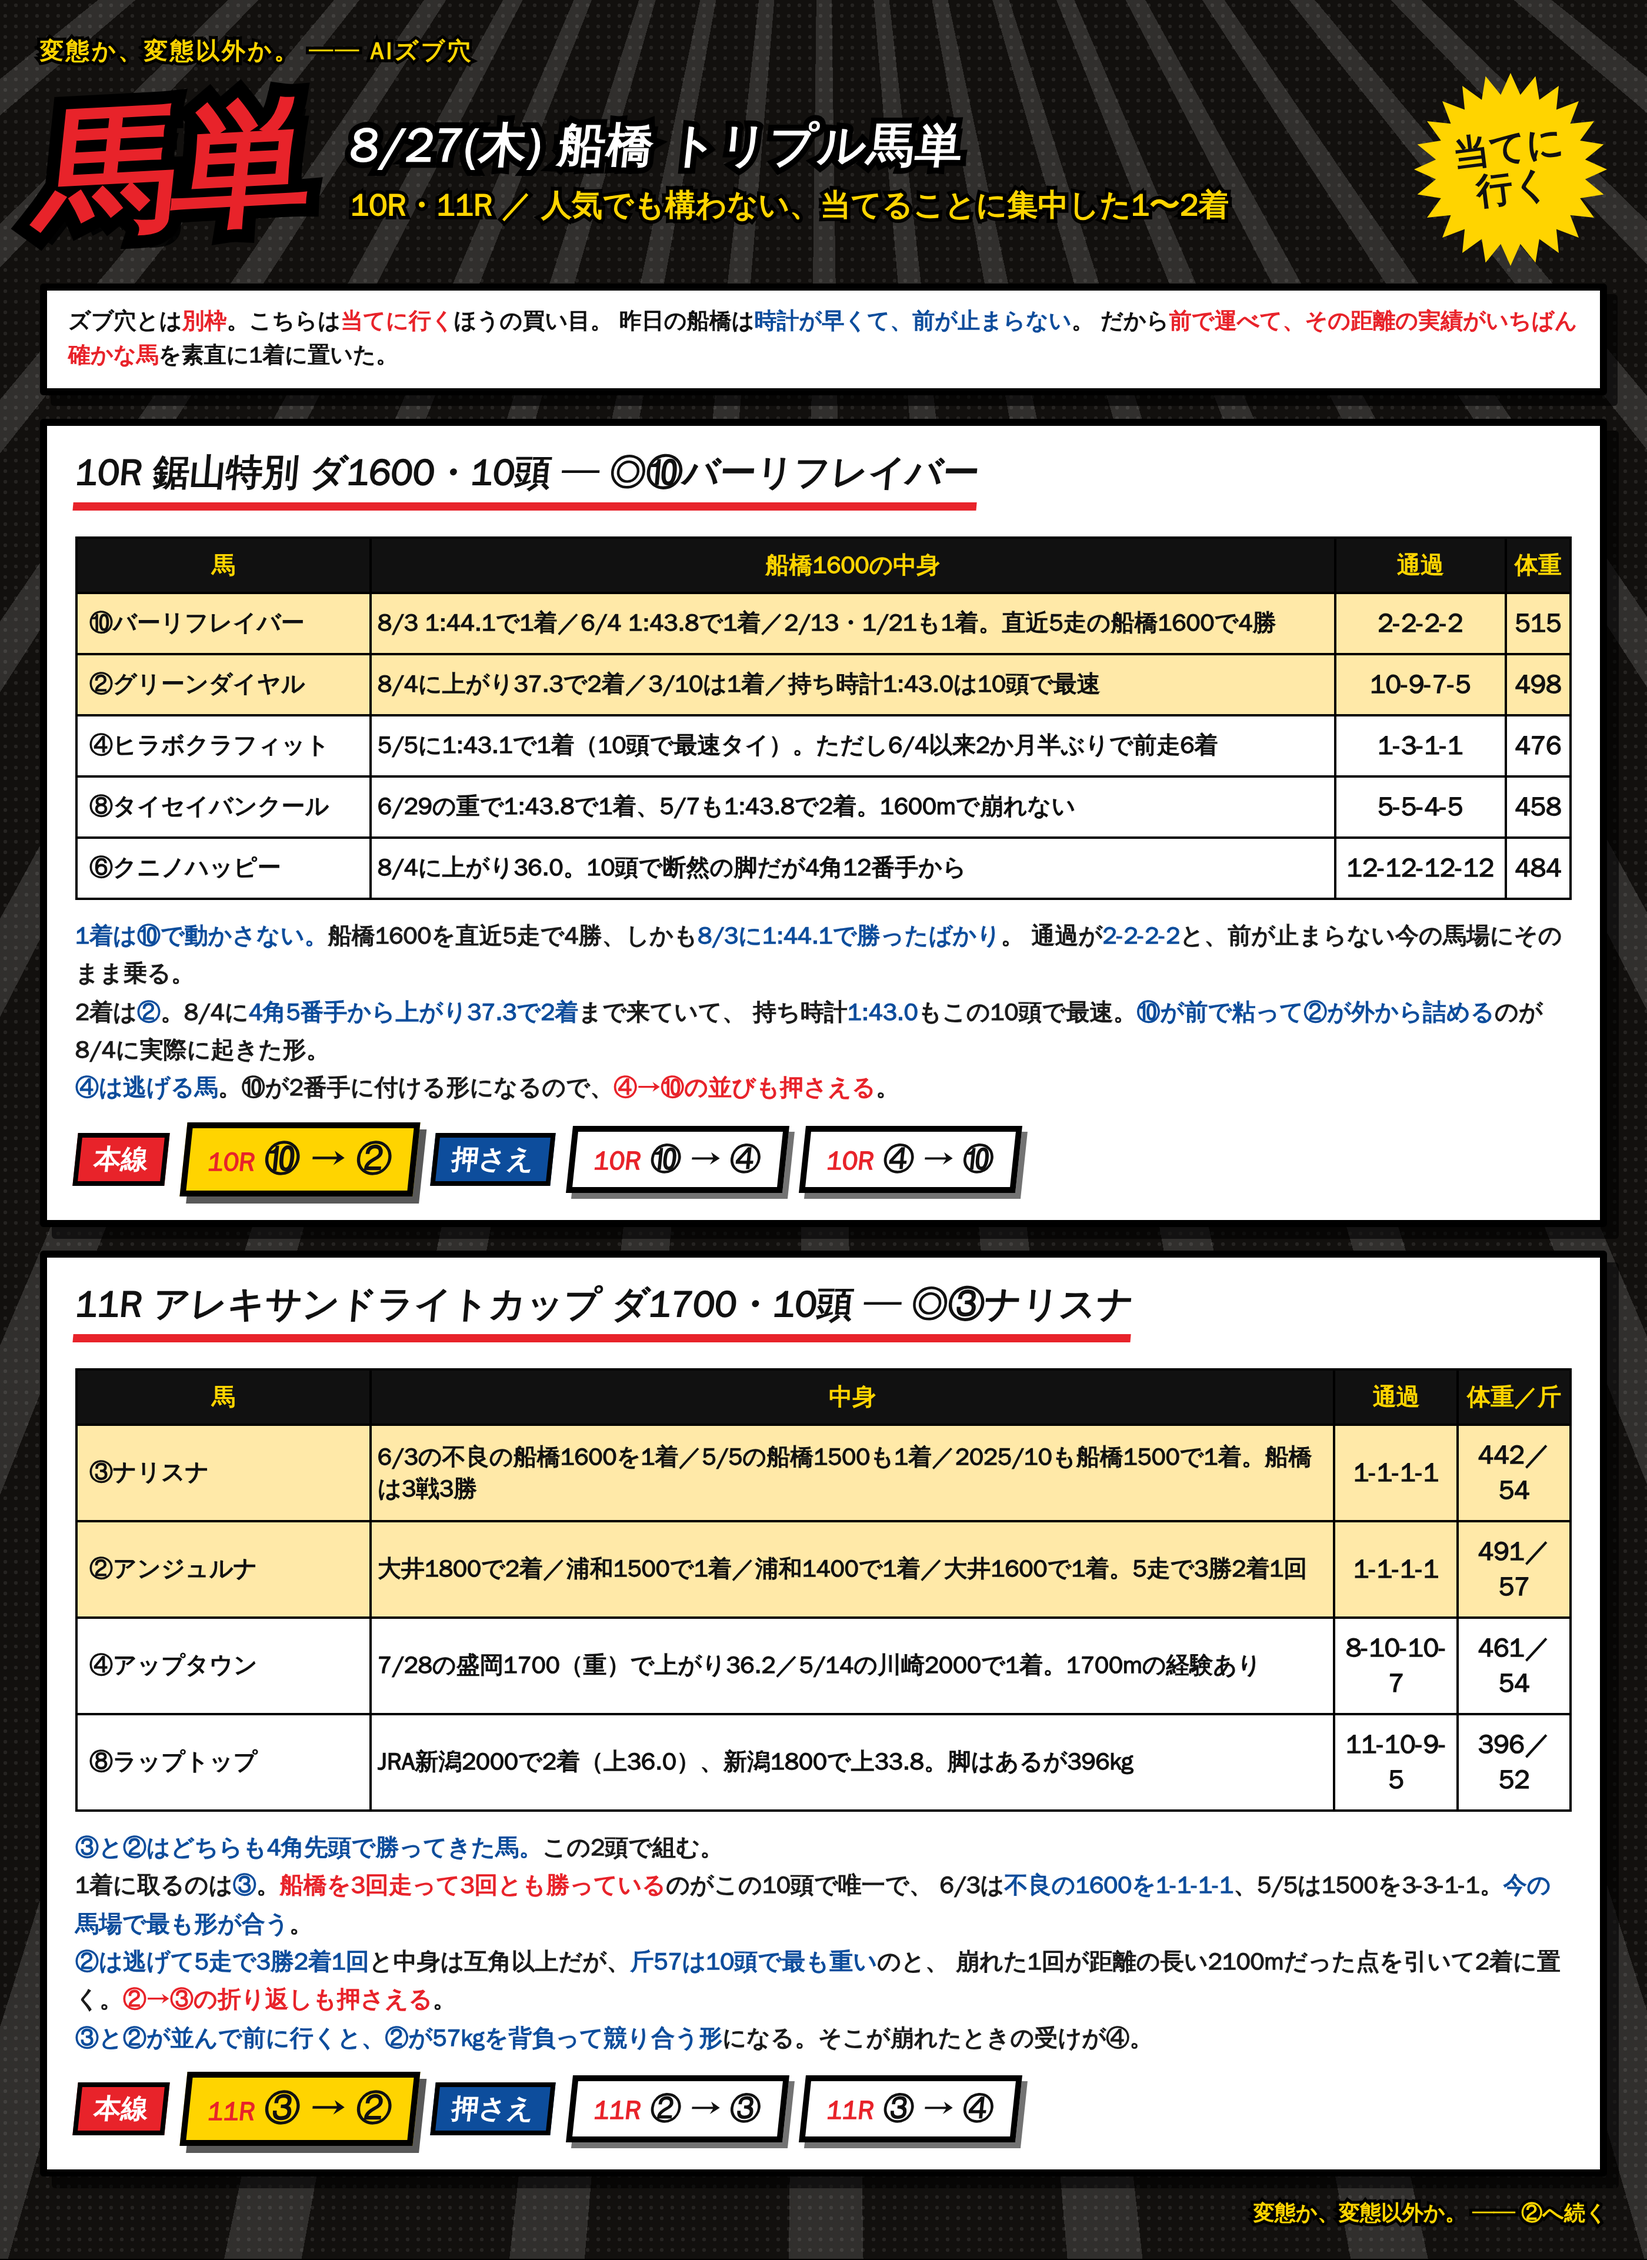
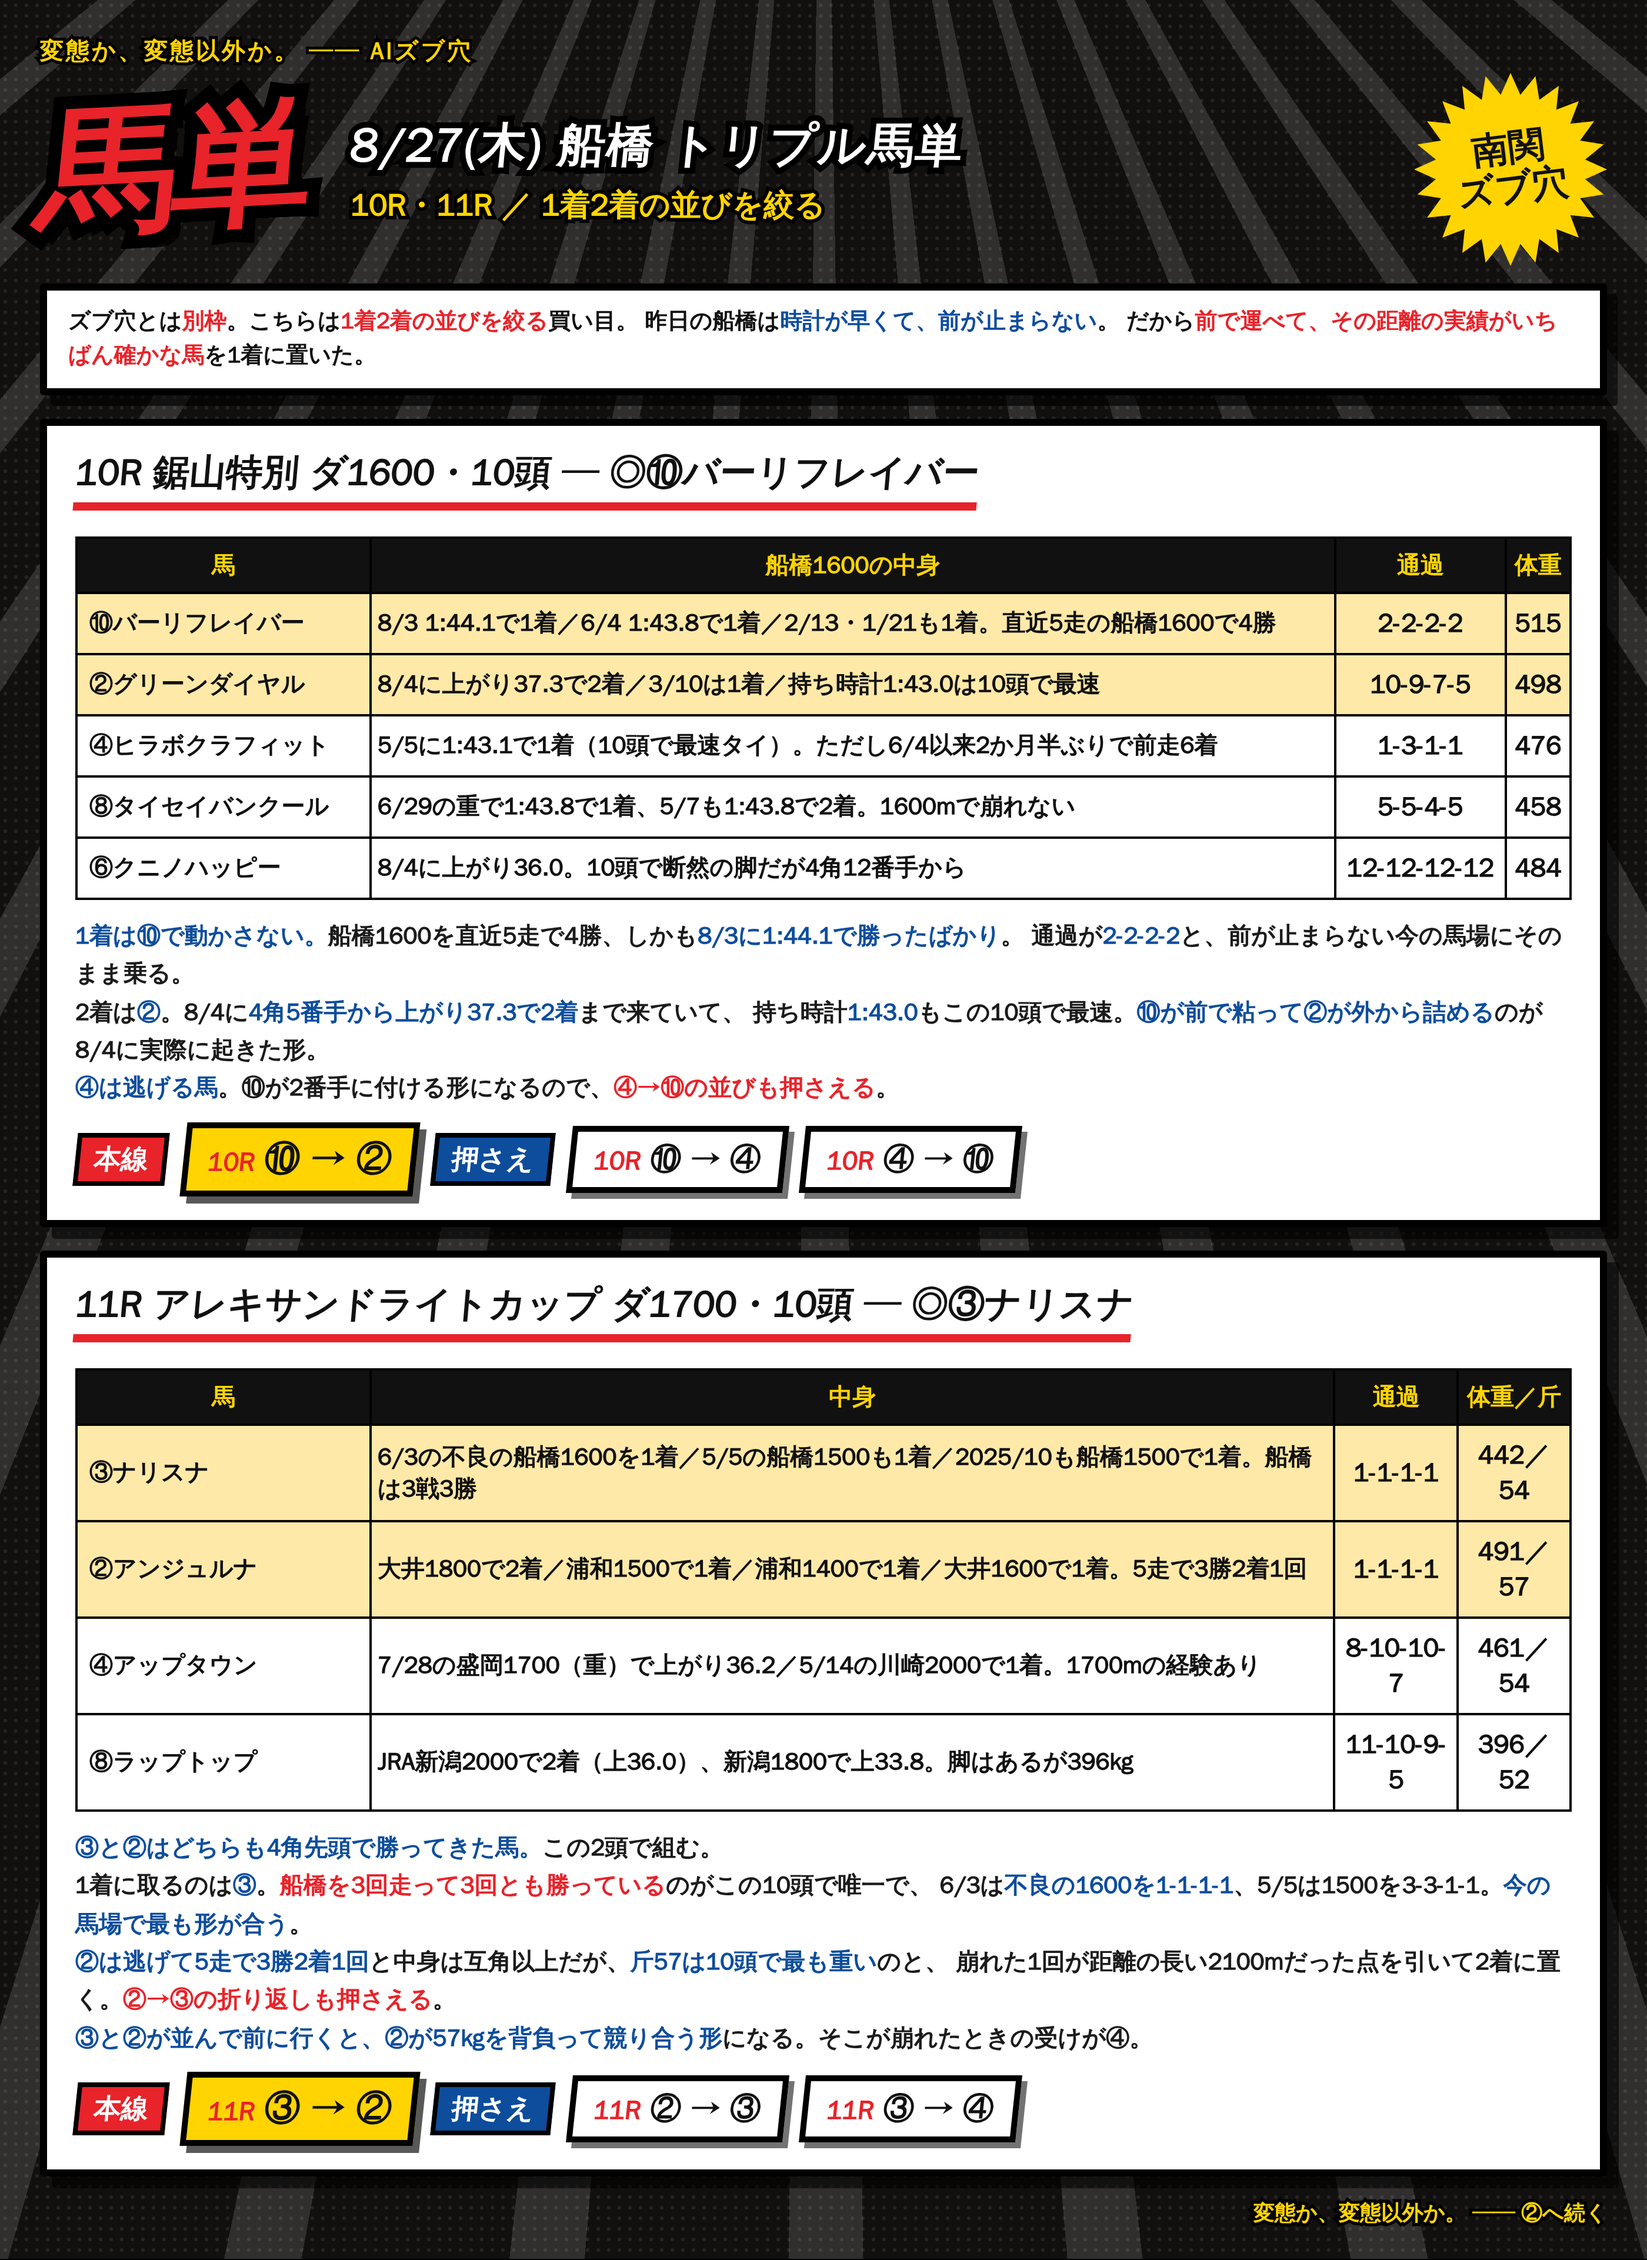
notes: 8/27 トリプル馬単から「当てに行く」の文言を削除

diff --git a/notes/live/2026-08-27/funabashi_triple_umatan_1.html b/notes/live/2026-08-27/funabashi_triple_umatan_1.html
@@ -113,11 +113,11 @@
 </style></head>
 <body><div class="card"><div class="lines"></div><div class="tone"></div><div class="inner">
 <div class="kicker">変態か、変態以外か。 ── AIズブ穴</div>
-<div class="head"><div class="gekiga">馬単</div><div class="dateblk"><div class="d1">8/27(木) 船橋 トリプル馬単</div><div class="d2">10R・11R ／ 人気でも構わない、当てることに集中した1〜2着</div></div><div class="burst"><span>当てに<br>行く</span></div></div>
+<div class="head"><div class="gekiga">馬単</div><div class="dateblk"><div class="d1">8/27(木) 船橋 トリプル馬単</div><div class="d2">10R・11R ／ 1着2着の並びを絞る</div></div><div class="burst"><span>南関<br>ズブ穴</span></div></div>
 
-<div class="lead">ズブ穴とは<span class="r">別枠</span>。こちらは<span class="r">当てに行く</span>ほうの買い目。
+<div class="lead">ズブ穴とは<span class="r">別枠</span>。こちらは<span class="r">1着2着の並びを絞る</span>買い目。
 昨日の船橋は<span class="b">時計が早くて、前が止まらない</span>。
-だから<span class="r">前で運べて、その距離の実績がいちばん確かな馬</span>を素直に1着に置いた。</div>
+だから<span class="r">前で運べて、その距離の実績がいちばん確かな馬</span>を1着に置いた。</div>
 
 <div class="sec">
  <div class="sh">10R 鋸山特別 ダ1600・10頭 ─ ◎⑩バーリフレイバー</div>

diff --git a/notes/live/2026-08-27/funabashi_triple_umatan_2.html b/notes/live/2026-08-27/funabashi_triple_umatan_2.html
@@ -113,7 +113,7 @@
 </style></head>
 <body><div class="card"><div class="lines"></div><div class="tone"></div><div class="inner">
 <div class="kicker">変態か、変態以外か。 ── AIズブ穴</div>
-<div class="head"><div class="gekiga">馬単</div><div class="dateblk"><div class="d1">8/27(木) 船橋 トリプル馬単</div><div class="d2">12R ／ 買い方は3段階（1点・8点・27点）</div></div><div class="burst"><span>当てに<br>行く</span></div></div>
+<div class="head"><div class="gekiga">馬単</div><div class="dateblk"><div class="d1">8/27(木) 船橋 トリプル馬単</div><div class="d2">12R ／ 買い方は3段階（1点・8点・27点）</div></div><div class="burst"><span>南関<br>ズブ穴</span></div></div>
 
 <div class="lead">3レース目は<span class="r">ダ2200</span>。
 この13頭で<span class="b">船橋2200を勝っている馬は1頭だけ</span>。そこを1着に置く。</div>

diff --git a/notes/live/2026-08-27/README.md b/notes/live/2026-08-27/README.md
@@ -333,13 +333,23 @@
 
 ---
 
-# トリプル馬単（10R・11R・12R）── 当てに行く形
+# トリプル馬単（10R・11R・12R）
 
 画像: `funabashi_triple_umatan_1.png`（10R・11R）／`funabashi_triple_umatan_2.png`（12R・買い方）
 HTML: 同名 `.html`
 
-ズブ穴とは別枠。**人気でも構わないので当てることに集中した1〜2着**。
+ズブ穴とは別枠。**1着2着の並びを絞る買い目**。
 1着に置いたのは3レースとも「**その距離・そのコースでいちばん勝っている馬**」。
+
+### 表記について
+
+初版に入れていた**「当てに行く」という文言は削除**した（バッジ・サブタイトル・リードの3か所）。
+
+| 箇所 | 前 | 後 |
+|---|---|---|
+| バッジ | 当てに行く | 南関ズブ穴 |
+| サブタイトル | 人気でも構わない、当てることに集中した1〜2着 | 1着2着の並びを絞る |
+| リード | こちらは**当てに行く**ほうの買い目 | こちらは**1着2着の並びを絞る**買い目 |
 
 ## 買い目
 
